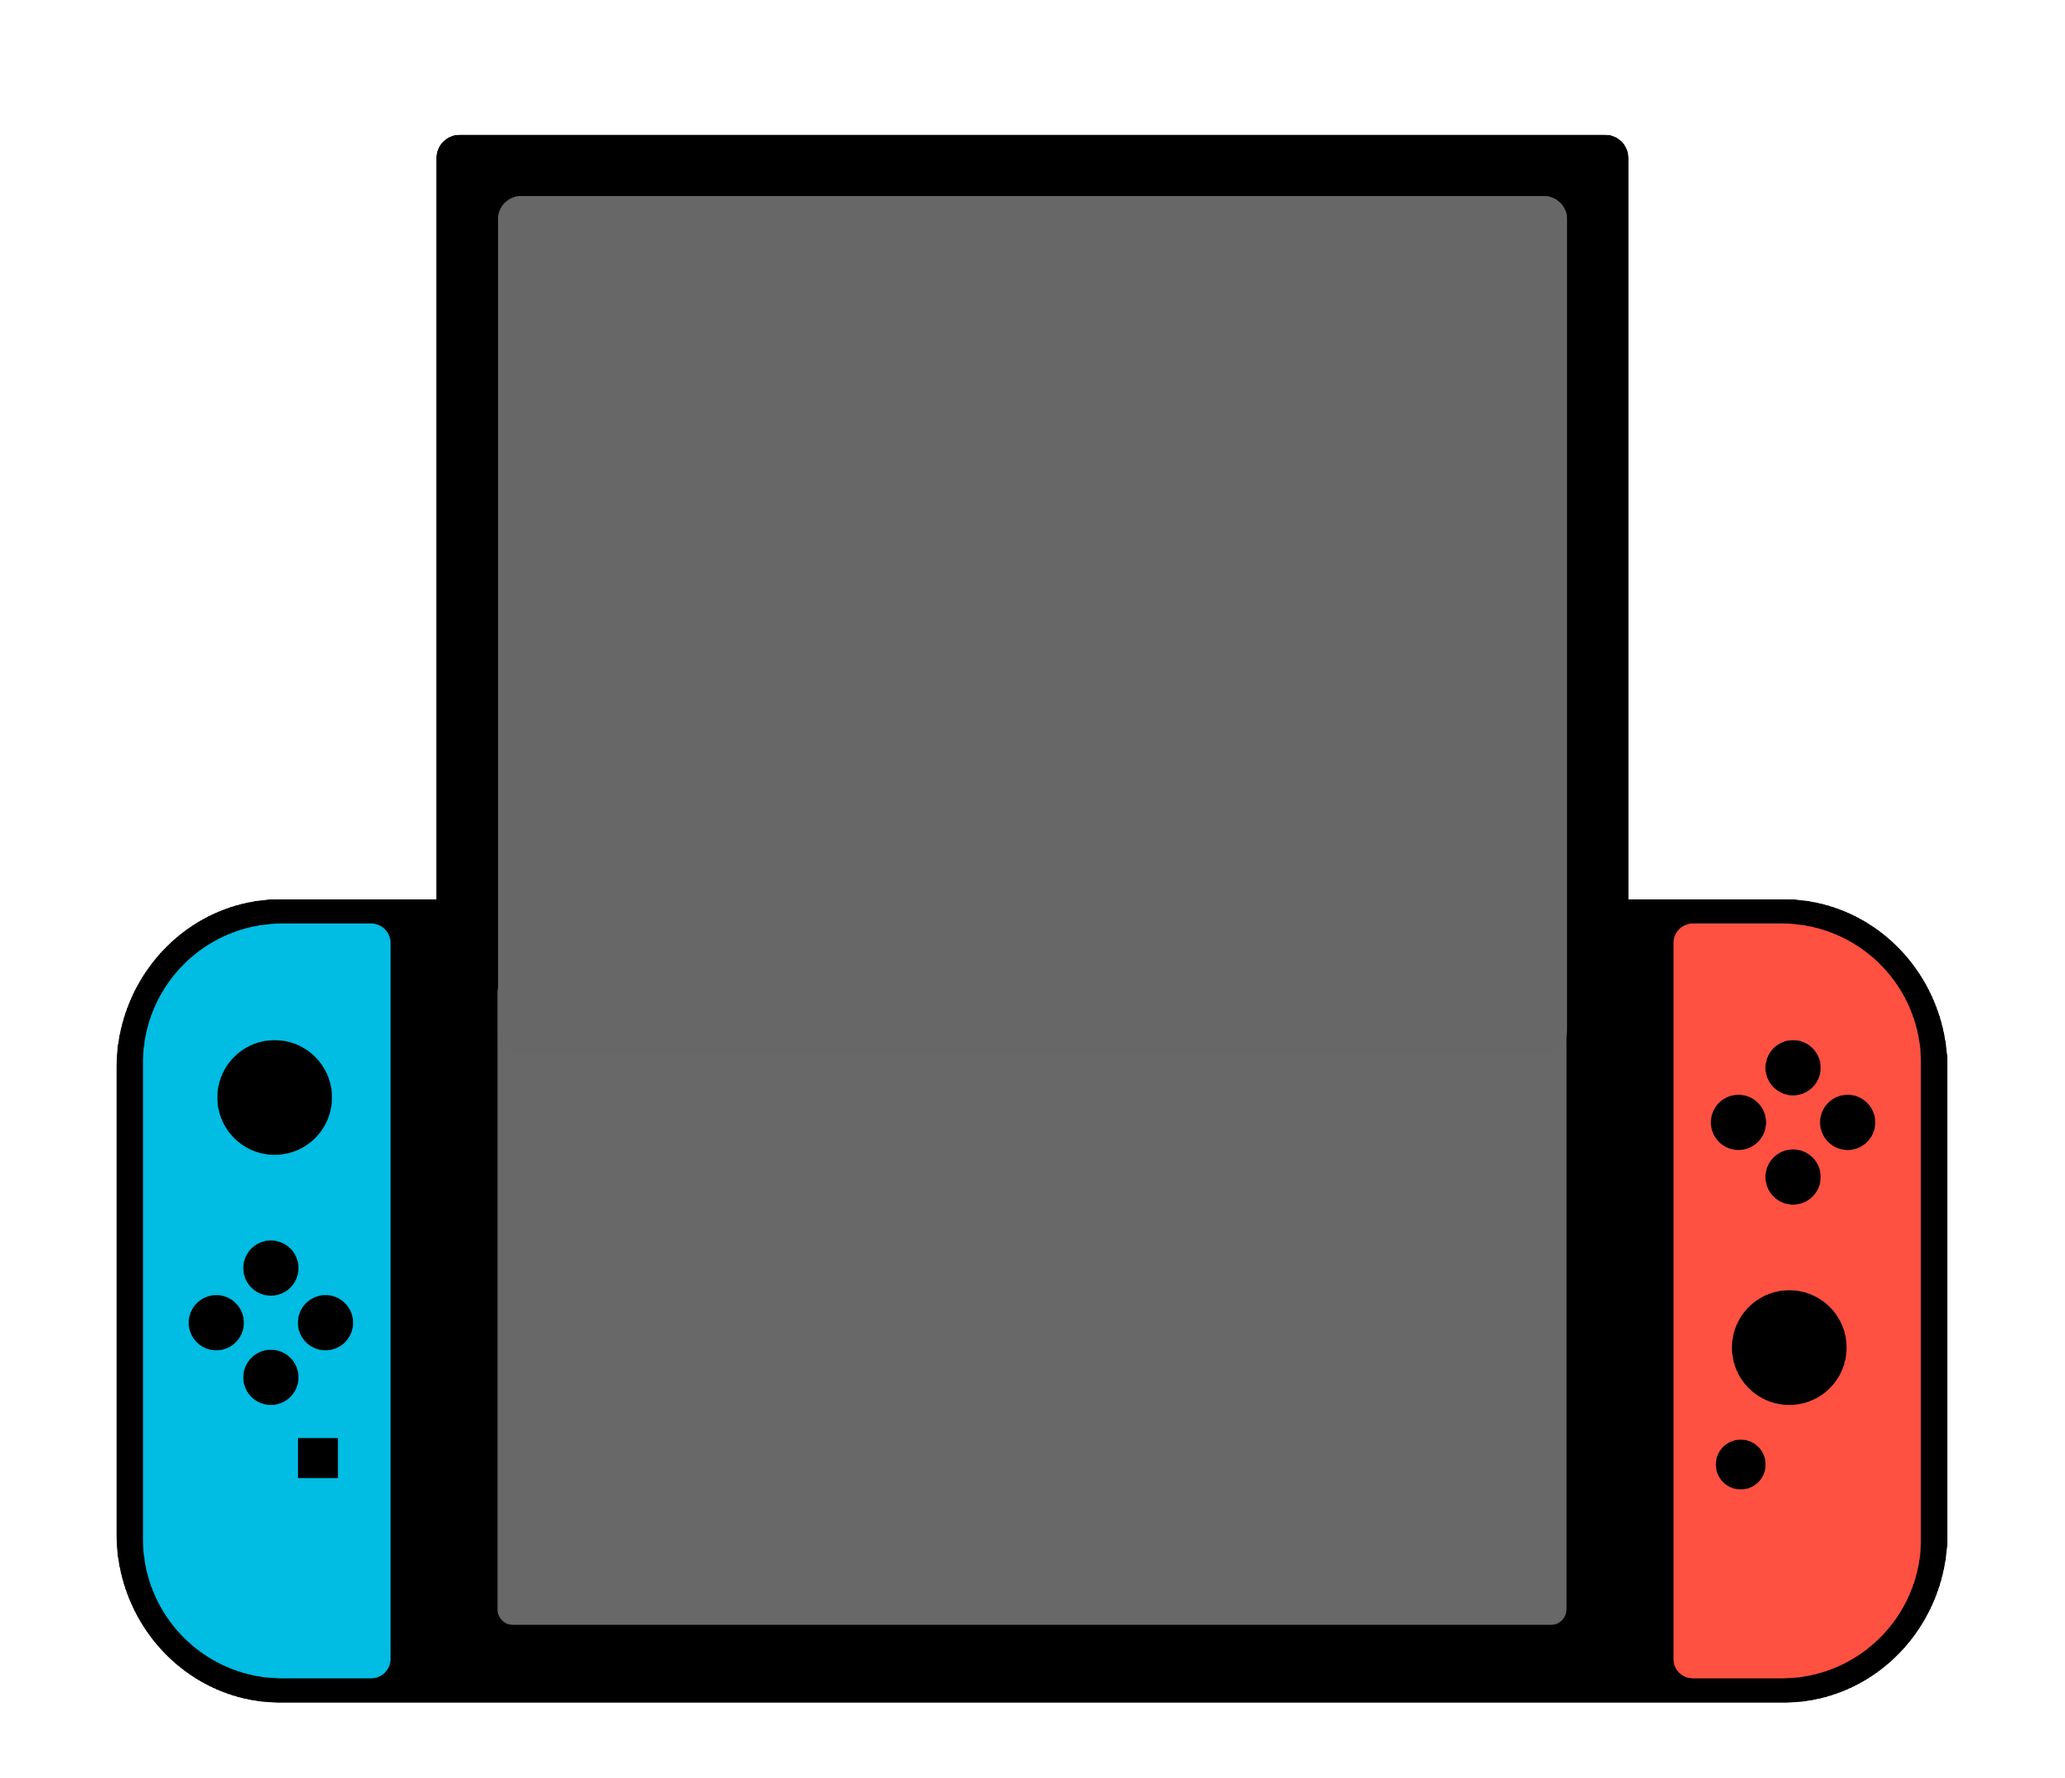
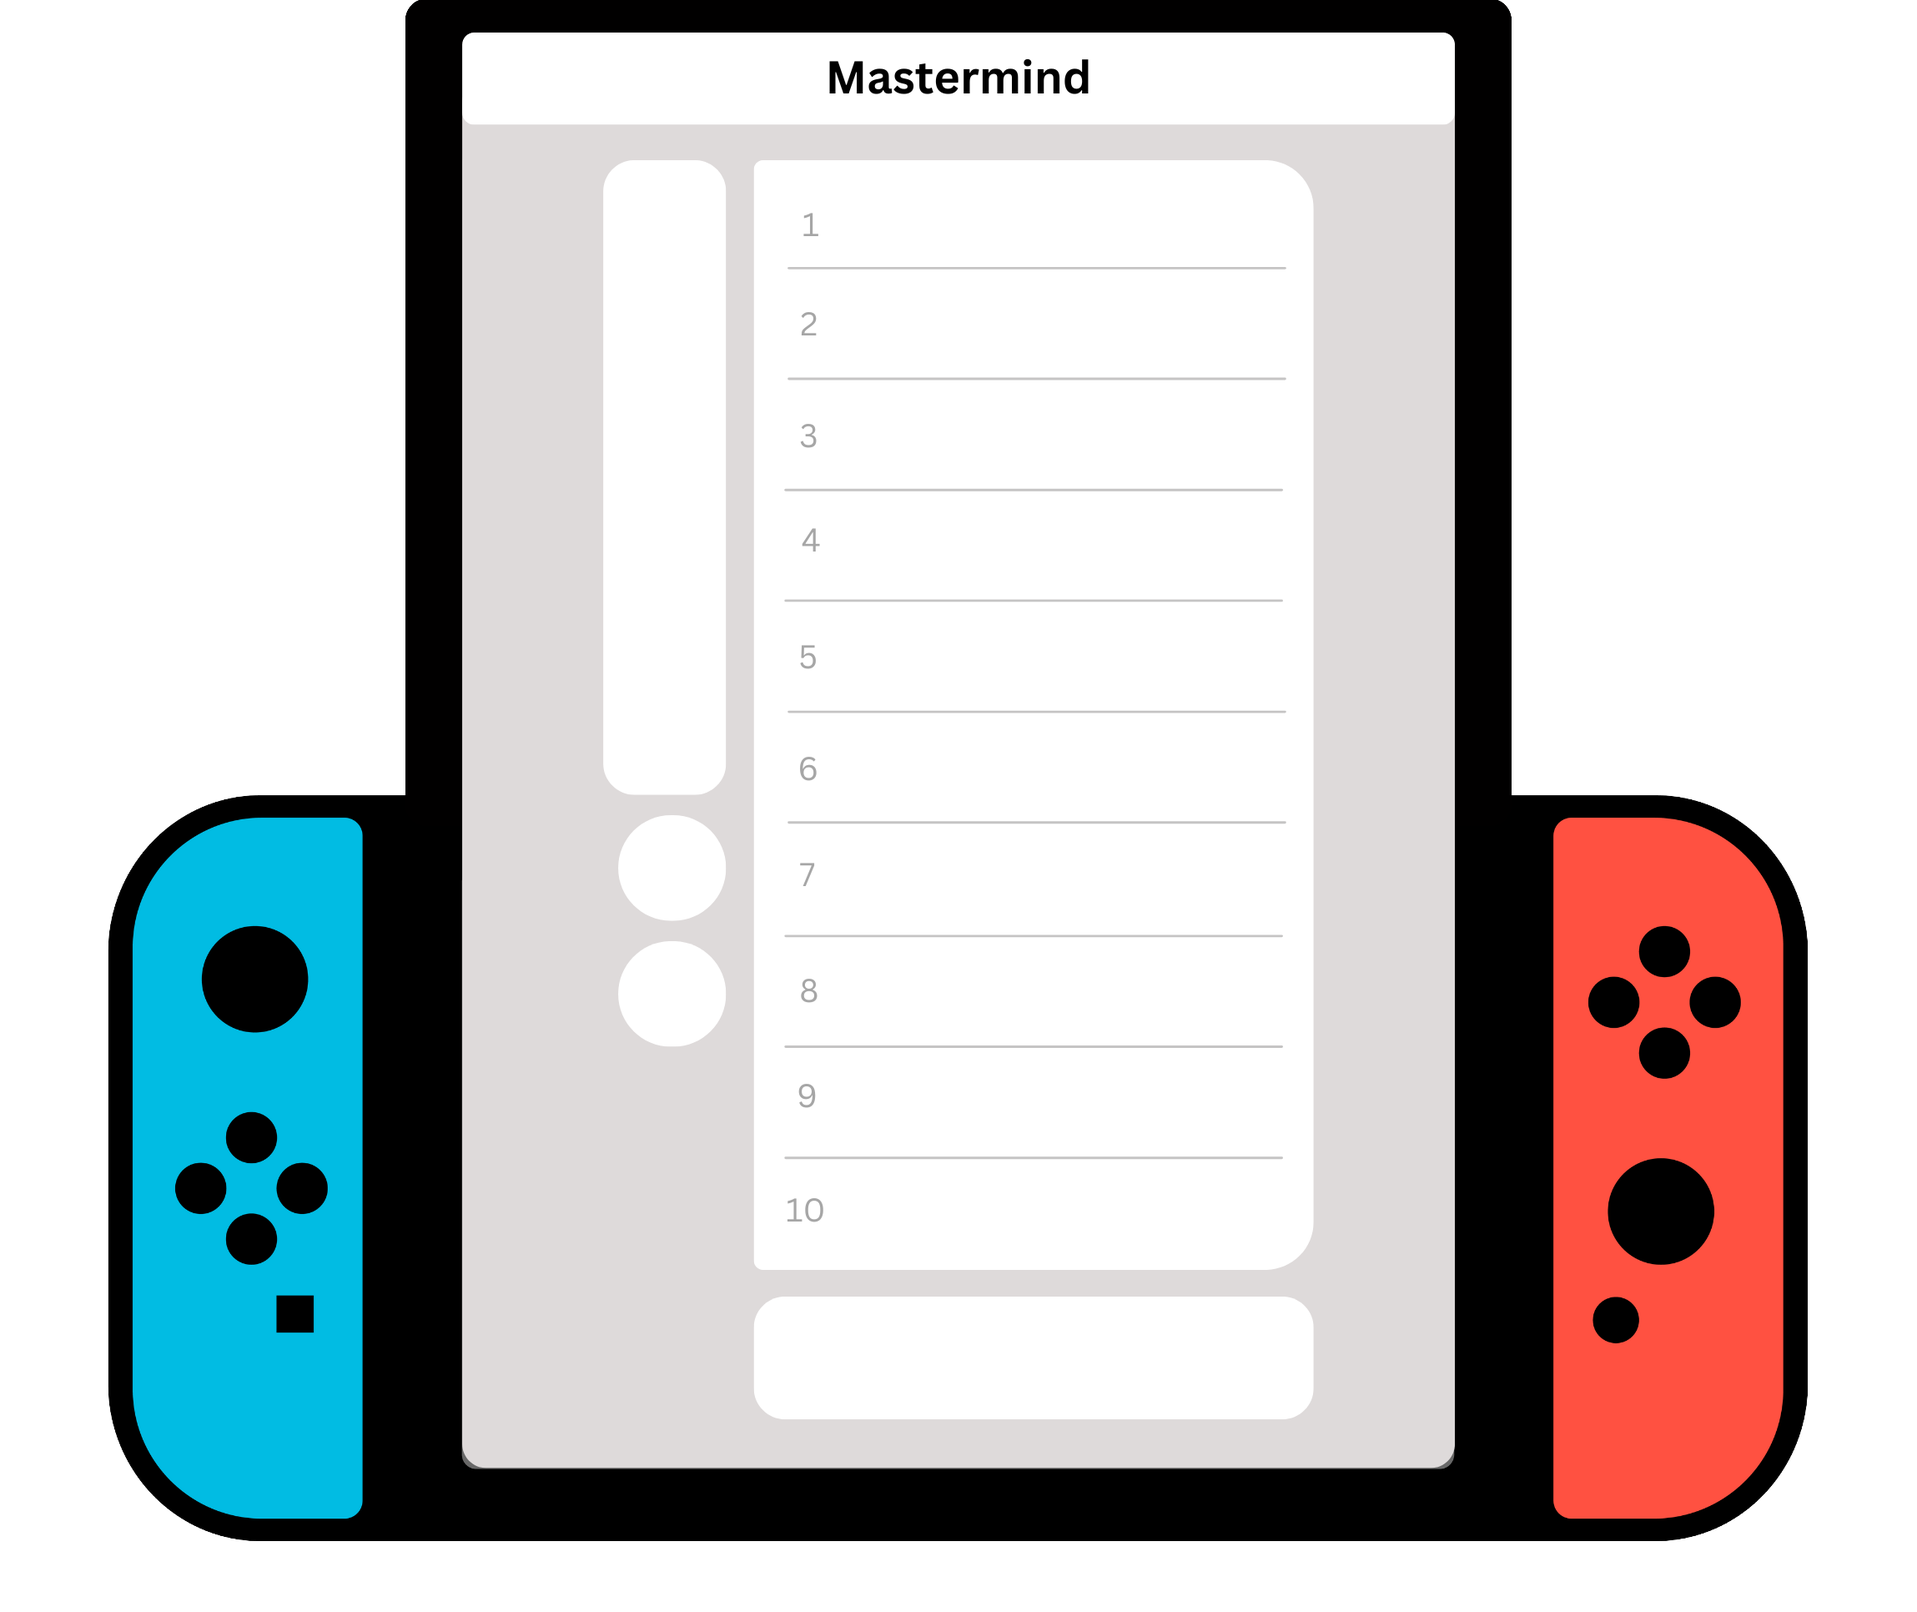
gameboard buttons

diff --git a/src/codebreaker/controllers/GameBoard.java b/src/codebreaker/controllers/GameBoard.java
@@ -3,11 +3,43 @@ package codebreaker.controllers;
 import codebreaker.CodeBreaker;
 import javafx.fxml.FXML;
 import javafx.scene.control.Button;
+import javafx.scene.image.Image;
 import javafx.scene.image.ImageView;
-
+import javafx.scene.shape.Circle;
 public class GameBoard {
     @FXML
     private ImageView background;
-    
-    
+    @FXML
+    private Button greenButton;
+    @FXML
+    private Button redButton;
+    @FXML
+    private Button blueButton;
+    @FXML
+    private Button yellowButton;
+    @FXML
+    private Button orangeButton;
+    @FXML
+    private Button purpleButton;
+    @FXML
+    private Button checkButton;
+    @FXML
+    private Button resetButton;
+
+    public void initialize() {
+        Button[] colorButtons = {greenButton, redButton, blueButton, yellowButton, orangeButton, purpleButton};
+        for (Button button : colorButtons) {
+            button.setShape(new Circle(15)); 
+            button.setMinSize(30, 30);
+            button.setMaxSize(30, 30);
+        }
+
+        resetButton.setShape(new Circle(20)); 
+        resetButton.setMinSize(44, 44); 
+        resetButton.setMaxSize(44, 44); 
+
+        checkButton.setShape(new Circle(20)); 
+        checkButton.setMinSize(44, 44); 
+        checkButton.setMaxSize(44, 44); 
+    }
 }

diff --git a/src/codebreaker/CodeBreaker.java b/src/codebreaker/CodeBreaker.java
@@ -20,7 +20,8 @@ public class CodeBreaker extends Application {
     @Override
     public void start(Stage primaryStage) throws IOException {
         
-        Parent root = FXMLLoader.load(getClass().getResource("gui/fxml/StartMenu.fxml"));
+        // Parent root = FXMLLoader.load(getClass().getResource("gui/fxml/StartMenu.fxml"));
+        Parent root = FXMLLoader.load(getClass().getResource("gui/fxml/GameBoard.fxml"));
         Scene scene = new Scene(root);
 
         primaryStage.setTitle("Code Breaker");

diff --git a/src/codebreaker/controllers/EnterUsername.java b/src/codebreaker/controllers/EnterUsername.java
@@ -1,7 +1,6 @@
 package codebreaker.controllers;
 
 import java.io.*;
-import java.lang.classfile.Label;
 import javafx.event.ActionEvent;
 import javafx.fxml.FXML;
 import javafx.fxml.FXMLLoader;
